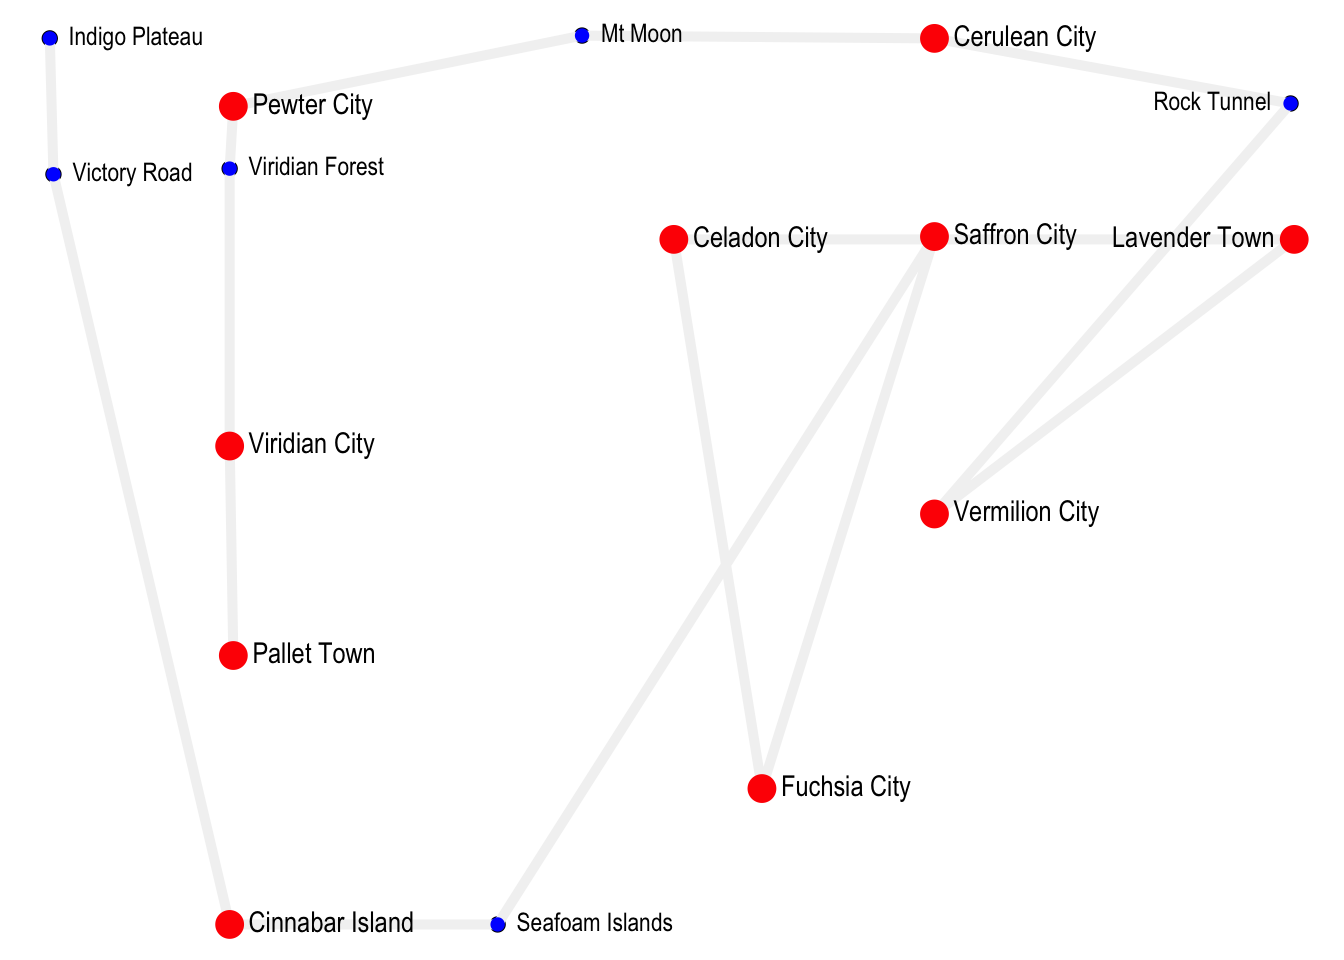
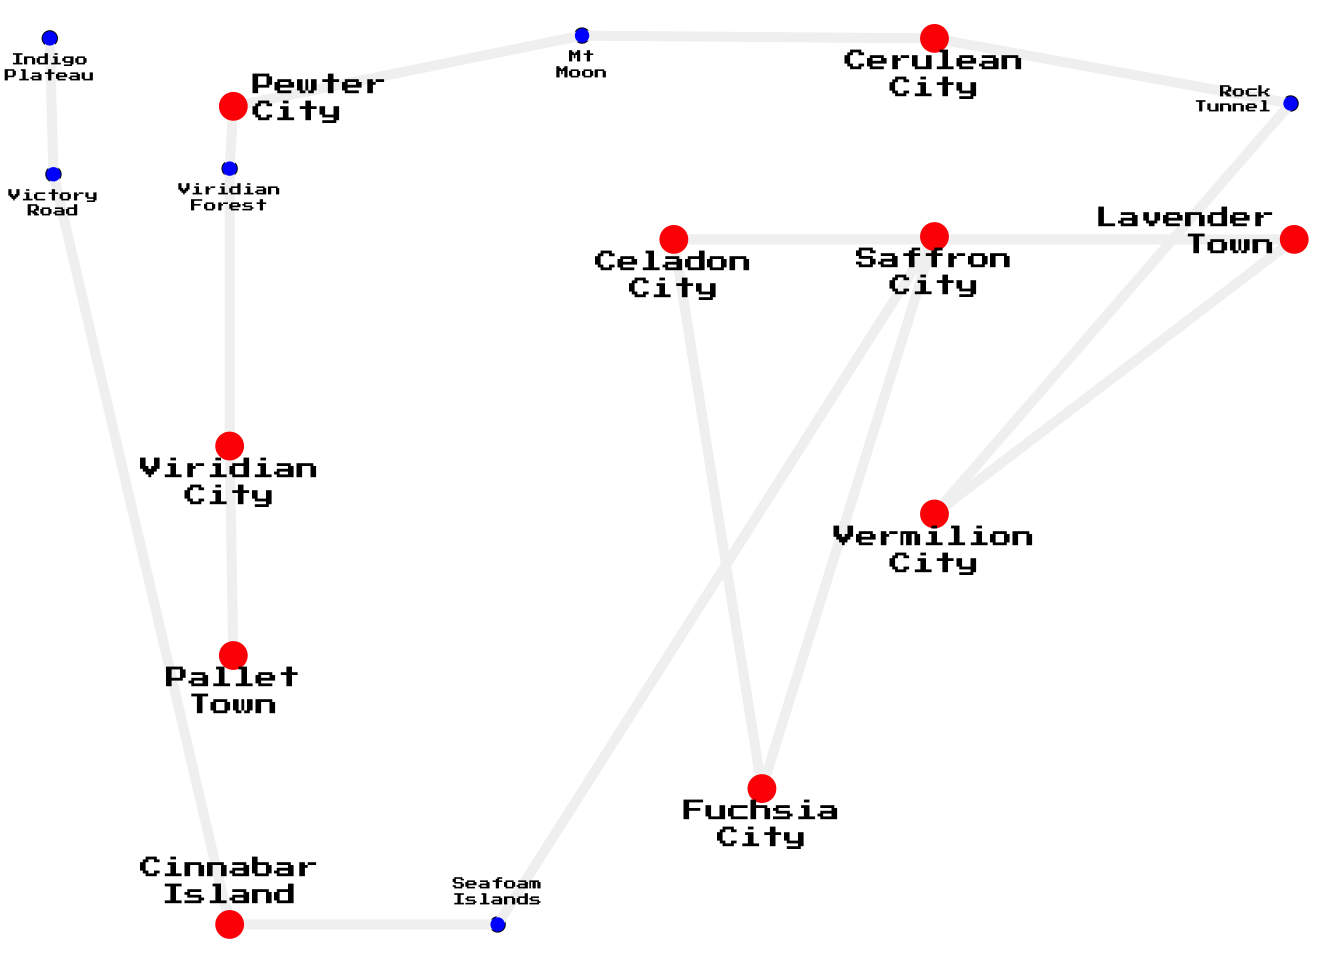
Publish kanto post

diff --git a/content/post/2021-11-03-kanto-locate.html b/content/post/2021-11-03-kanto-locate.html
@@ -11,15 +11,17 @@ tags:
   - map
   - pokemon
   - r
-draft: yes
 ---
 
 <script src="/rmarkdown-libs/header-attrs/header-attrs.js"></script>
 
 
+<div class="figure">
+<p><img src="/post/2021-11-03-kanto-locate_files/kanto-closeup.png" alt="Three red points on a map labelled with names from the original Pokemon game for GameBoy: Celadon City, Saffron City and Lavender Town. Light grey lines connect the points and to other points offscreen. " width="100%"/></p>
+</div>
 <div id="tldr" class="section level1">
 <h1>tl;dr</h1>
-<p>Use R to interactively extract arbitrary coordinates from an image. I extracted them for the cities of Kanto from the first-generation of <em>Pokémon</em> games.</p>
+<p>Use R to interactively extract arbitrary coordinates from images of imaginary maps. I extracted points of interest from Kanto in the original <em>Pokémon</em> games.</p>
 </div>
 <div id="on-the-road-to-viridian-city" class="section level1">
 <h1>On the road to Viridian City</h1>
@@ -91,8 +93,11 @@ Click on Seafoam Islands... found.
 Click on Cinnabar Island... found.
 Click on Victory Road... found.
 Click on Indigo Plateau... found.</code></pre>
-<p>[insert gif of manual clicking process]</p>
-<p>The output is a data.frame of the coordinates with one row per location. The locations vector is passed as the rownames of the dataframe.</p>
+<p>Aside: here’s a simplified version of what’s going on when you use <code>locator()</code>.</p>
+<div class="figure">
+<p><img src="/post/2021-11-03-kanto-locate_files/locator.gif" alt="R code is run in RStudio to produce a simple plot with one point in the centre. After running the execute function, the user clicks the single point and the console prints a list with x and y coordinate values for that point." width="100%"/></p>
+</div>
+<p>Anyway, the output from <code>locate_points()</code> is a data.frame of the coordinates with one row per location. The locations vector was passed as the rownames of the dataframe.</p>
 <pre class="r"><code>kanto_pts</code></pre>
 <pre><code>##                         x          y
 ## Pallet Town     0.2470187 0.30648777
@@ -136,13 +141,13 @@ points(
 
 text(
   kanto_pts$x, kanto_pts$y,
-  row.names(kanto_pts),
-  cex = ifelse(kanto_pts$city, 0.9, 0.8),
-  pos = c(rep(4, 6), 2, 4, 2, rep(4, 7)),
-  family = &quot;Arial Narrow&quot;
+  gsub(&quot; &quot;, &quot;\n&quot;, row.names(kanto_pts)),
+  cex = ifelse(kanto_pts$city, 0.7, 0.4),
+  pos = c(1, 1, 1, 4, 1, 1, 2, 1, 2, 1, 1, 1, 3, 3, 1, 1),
+  family = &quot;Press Start 2P&quot;  # from Google Fonts
 )</code></pre>
 <p><img src="/post/2021-11-03-kanto-locate_files/figure-html/plot-cities-1.png" width="672" /></p>
-<p>It might be fun to do a minimal map of the cities where the points are coloured according to the name of the city. You may have noticed that the city names are all fancy colour names, so let’s use them. Well, except Pallett, which can be a mix of all colours.</p>
+<p>It might also be fun to do a minimal map of the cities where the points are coloured according to the name of the city. You may have noticed that the city names are all fancy colour names, so let’s use them. Well, except Pallett, which can be a mix of all colours.</p>
 <pre class="r"><code>kanto_cities &lt;- 
   kanto_pts[kanto_pts$city | rownames(kanto_pts) == &quot;Indigo Plateau&quot;, ]
 
@@ -198,8 +203,8 @@ Session info
 </summary>
 <pre><code>## ─ Session info ───────────────────────────────────────────────────────────────
 ##  setting  value                       
-##  version  R version 4.1.1 (2021-08-10)
-##  os       macOS Mojave 10.14.6        
+##  version  R version 4.1.0 (2021-05-18)
+##  os       macOS Big Sur 10.16         
 ##  system   x86_64, darwin17.0          
 ##  ui       X11                         
 ##  language (EN)                        
@@ -209,40 +214,39 @@ Session info
 ##  date     2021-11-04                  
 ## 
 ## ─ Packages ───────────────────────────────────────────────────────────────────
-##  package     * version date       lib source            
-##  blogdown      1.5     2021-09-02 [1] CRAN (R 4.1.0)    
-##  bookdown      0.24    2021-09-02 [1] CRAN (R 4.1.0)    
-##  bslib         0.3.1   2021-10-06 [1] CRAN (R 4.1.0)    
-##  cli           3.0.1   2021-07-17 [1] CRAN (R 4.1.0)    
-##  codetools     0.2-18  2020-11-04 [2] CRAN (R 4.1.1)    
-##  digest        0.6.28  2021-09-23 [1] CRAN (R 4.1.0)    
-##  evaluate      0.14    2019-05-28 [1] CRAN (R 4.1.0)    
-##  fastmap       1.1.0   2021-01-25 [1] CRAN (R 4.1.0)    
-##  highr         0.9     2021-04-16 [1] CRAN (R 4.1.0)    
-##  htmltools     0.5.2   2021-08-25 [1] CRAN (R 4.1.0)    
-##  jquerylib     0.1.4   2021-04-26 [1] CRAN (R 4.1.0)    
-##  jsonlite      1.7.2   2020-12-09 [1] CRAN (R 4.1.0)    
-##  knitr         1.36    2021-09-29 [1] CRAN (R 4.1.0)    
-##  lattice       0.20-44 2021-05-02 [2] CRAN (R 4.1.1)    
-##  magrittr      2.0.1   2020-11-17 [1] CRAN (R 4.1.0)    
-##  png           0.1-7   2013-12-03 [1] standard (@0.1-7) 
-##  R6            2.5.1   2021-08-19 [1] CRAN (R 4.1.0)    
-##  raster        3.4-13  2021-06-18 [1] standard (@3.4-13)
-##  Rcpp          1.0.7   2021-07-07 [1] CRAN (R 4.1.0)    
-##  rlang         0.4.12  2021-10-18 [1] CRAN (R 4.1.0)    
-##  rmarkdown     2.11    2021-09-14 [1] CRAN (R 4.1.0)    
-##  rstudioapi    0.13    2020-11-12 [1] CRAN (R 4.1.0)    
-##  sass          0.4.0   2021-05-12 [1] CRAN (R 4.1.0)    
-##  sessioninfo   1.1.1   2018-11-05 [1] CRAN (R 4.1.0)    
-##  sp            1.4-5   2021-01-10 [1] standard (@1.4-5) 
-##  stringi       1.7.5   2021-10-04 [1] CRAN (R 4.1.0)    
-##  stringr       1.4.0   2019-02-10 [1] CRAN (R 4.1.0)    
-##  withr         2.4.2   2021-04-18 [1] CRAN (R 4.1.0)    
-##  xfun          0.26    2021-09-14 [1] CRAN (R 4.1.0)    
-##  yaml          2.2.1   2020-02-01 [1] CRAN (R 4.1.0)    
+##  package     * version date       lib source        
+##  blogdown      1.4     2021-07-23 [1] CRAN (R 4.1.0)
+##  bookdown      0.23    2021-08-13 [1] CRAN (R 4.1.0)
+##  bslib         0.3.1   2021-10-06 [1] CRAN (R 4.1.0)
+##  cli           3.1.0   2021-10-27 [1] CRAN (R 4.1.0)
+##  codetools     0.2-18  2020-11-04 [1] CRAN (R 4.1.0)
+##  digest        0.6.28  2021-09-23 [1] CRAN (R 4.1.0)
+##  evaluate      0.14    2019-05-28 [1] CRAN (R 4.1.0)
+##  fastmap       1.1.0   2021-01-25 [1] CRAN (R 4.1.0)
+##  highr         0.9     2021-04-16 [1] CRAN (R 4.1.0)
+##  htmltools     0.5.2   2021-08-25 [1] CRAN (R 4.1.0)
+##  jquerylib     0.1.4   2021-04-26 [1] CRAN (R 4.1.0)
+##  jsonlite      1.7.2   2020-12-09 [1] CRAN (R 4.1.0)
+##  knitr         1.36    2021-09-29 [1] CRAN (R 4.1.0)
+##  lattice       0.20-44 2021-05-02 [1] CRAN (R 4.1.0)
+##  magrittr      2.0.1   2020-11-17 [1] CRAN (R 4.1.0)
+##  png           0.1-7   2013-12-03 [1] CRAN (R 4.1.0)
+##  R6            2.5.1   2021-08-19 [1] CRAN (R 4.1.0)
+##  raster        3.4-13  2021-06-18 [1] CRAN (R 4.1.0)
+##  Rcpp          1.0.7   2021-07-07 [1] CRAN (R 4.1.0)
+##  rlang         0.4.12  2021-10-18 [1] CRAN (R 4.1.0)
+##  rmarkdown     2.10    2021-08-06 [1] CRAN (R 4.1.0)
+##  rstudioapi    0.13    2020-11-12 [1] CRAN (R 4.1.0)
+##  sass          0.4.0   2021-05-12 [1] CRAN (R 4.1.0)
+##  sessioninfo   1.1.1   2018-11-05 [1] CRAN (R 4.1.0)
+##  sp            1.4-5   2021-01-10 [1] CRAN (R 4.1.0)
+##  stringi       1.7.5   2021-10-04 [1] CRAN (R 4.1.0)
+##  stringr       1.4.0   2019-02-10 [1] CRAN (R 4.1.0)
+##  withr         2.4.2   2021-04-18 [1] CRAN (R 4.1.0)
+##  xfun          0.26    2021-09-14 [1] CRAN (R 4.1.0)
+##  yaml          2.2.1   2020-02-01 [1] CRAN (R 4.1.0)
 ## 
-## [1] /Users/matt.dray/Library/R/x86_64/4.1/library
-## [2] /Library/Frameworks/R.framework/Versions/4.1/Resources/library</code></pre>
+## [1] /Library/Frameworks/R.framework/Versions/4.1/Resources/library</code></pre>
 </details>
 </div>
 <div class="footnotes">
